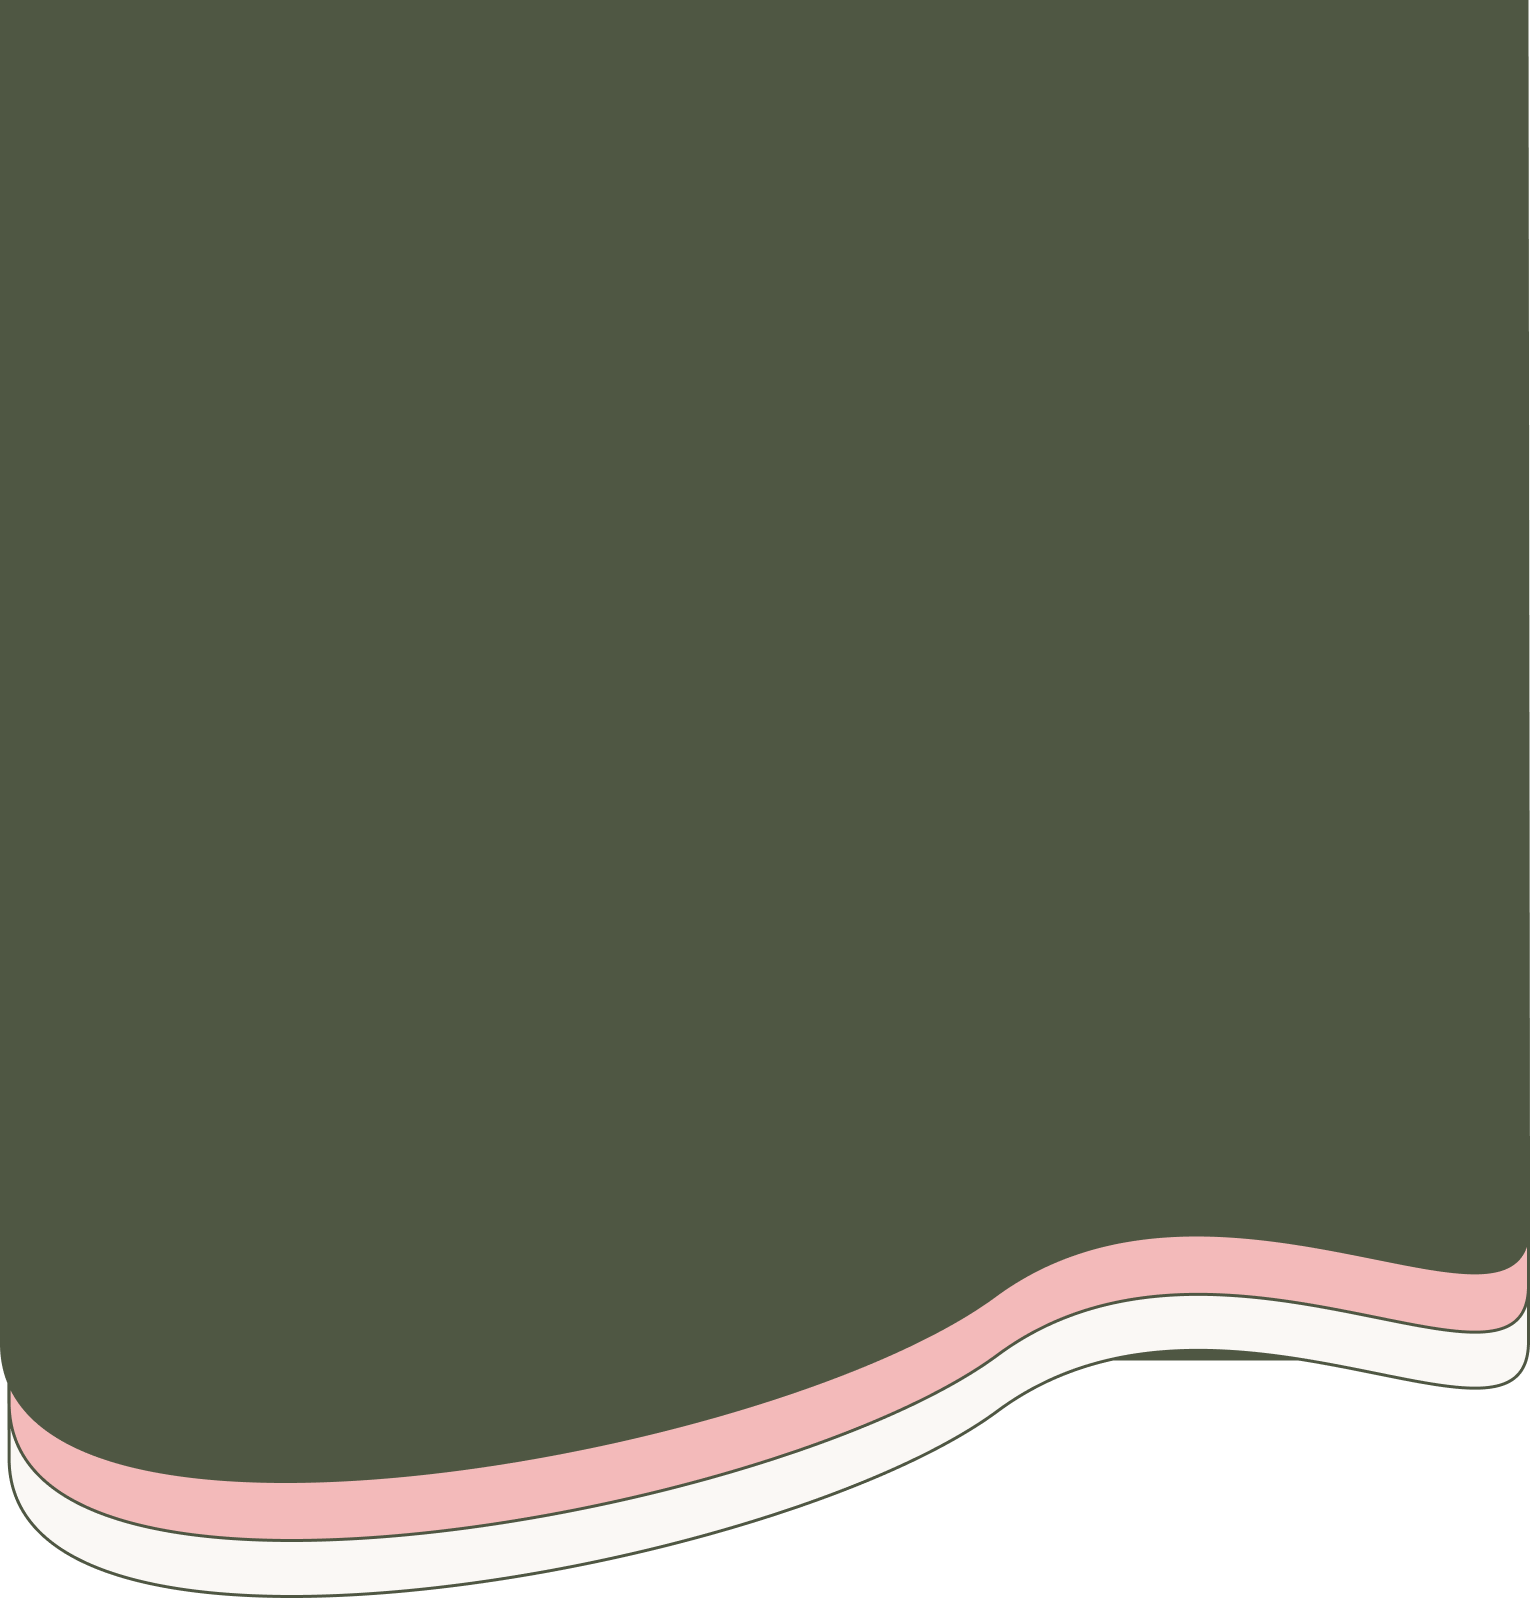
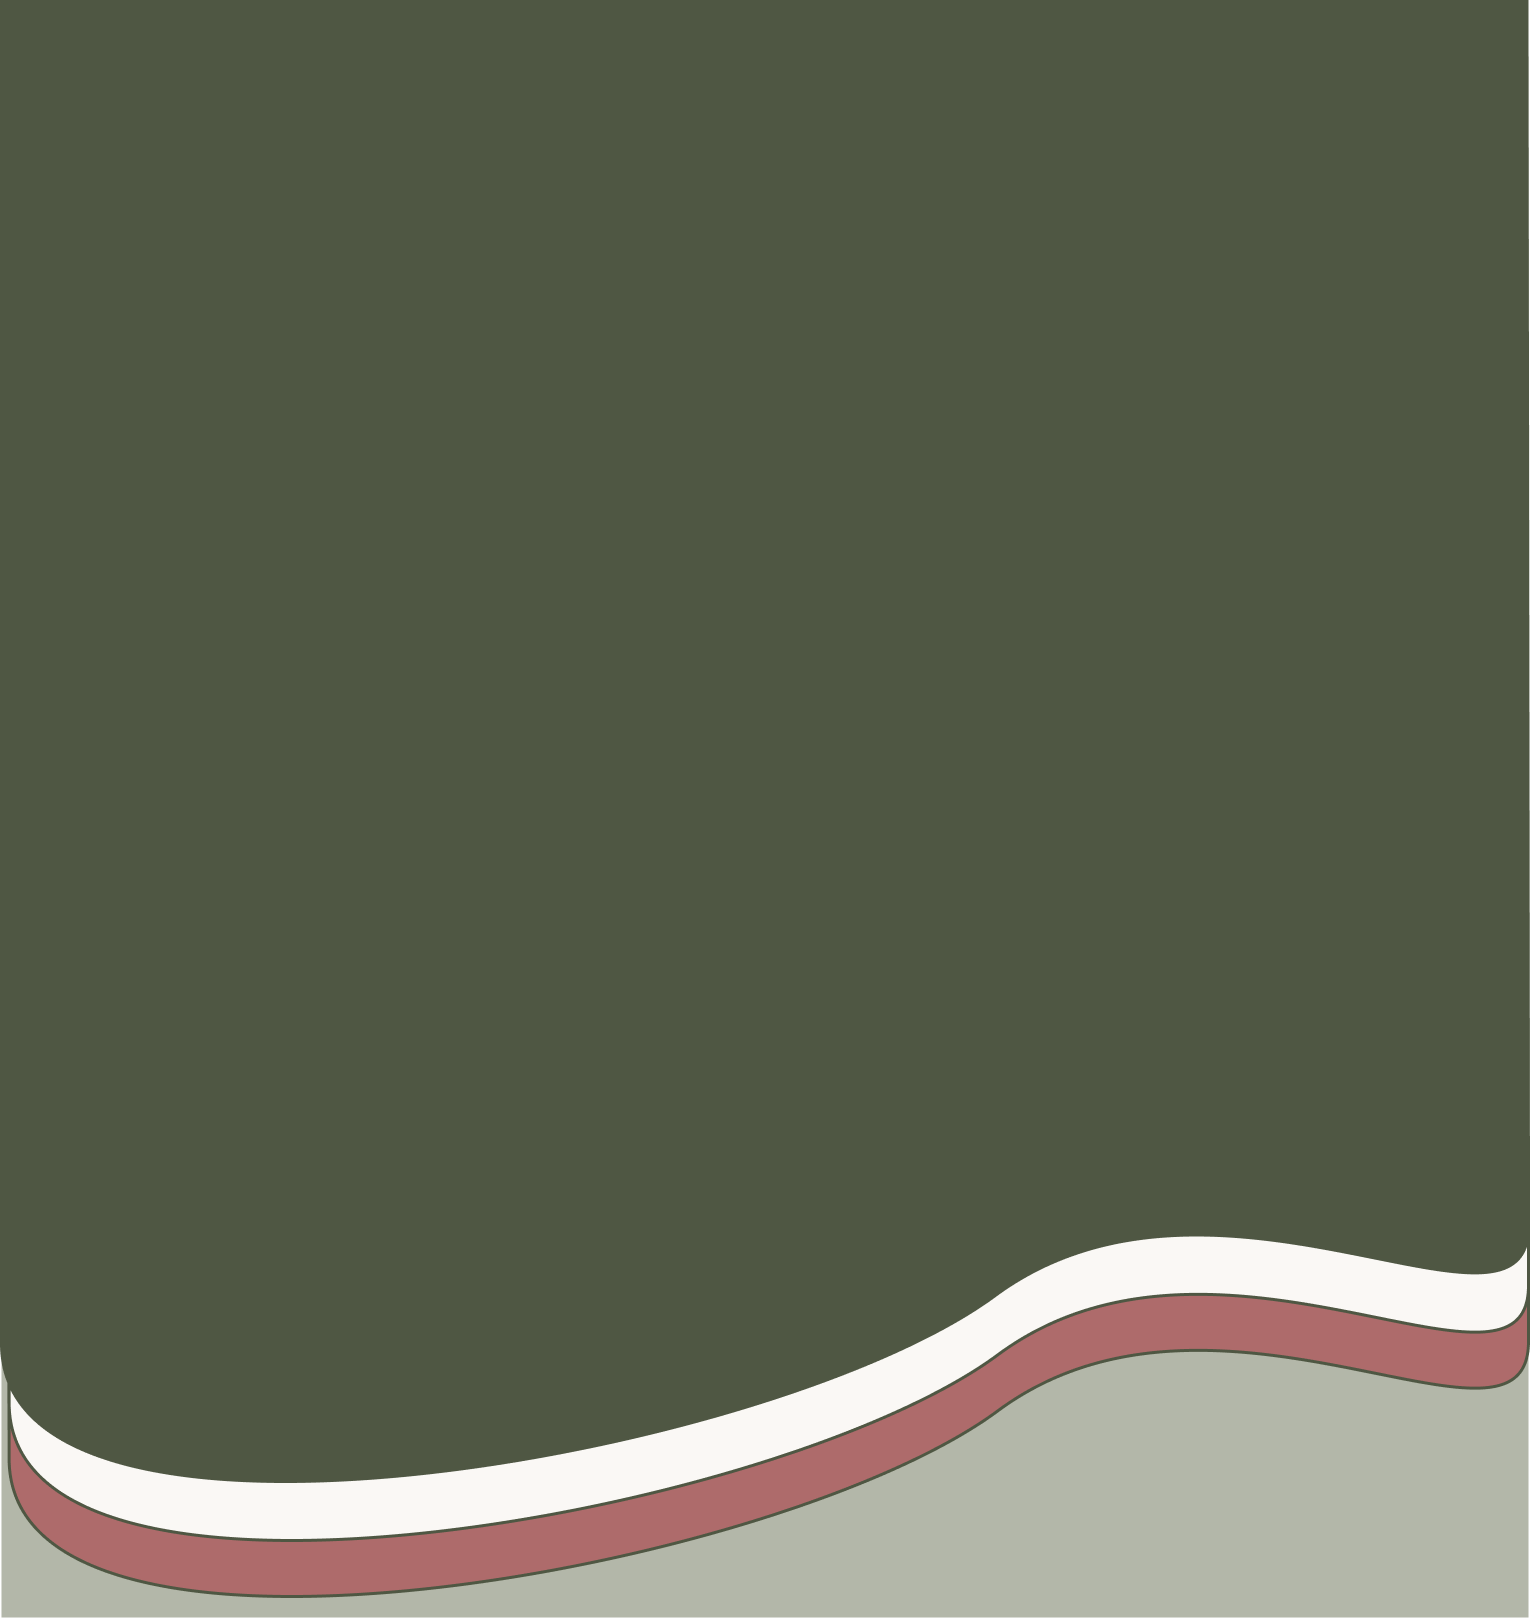
adjusted header background

Changed region(s): [[0.0, 0.7666, 1.0, 1.0]]

diff --git a/src/components/About.tsx b/src/components/About.tsx
@@ -1,40 +1,62 @@
-import naturePic from '../assets/images/nature-pic.png';
-import cowboyPic from '../assets/images/cowboy-pic.png';
-import cafePic from '../assets/images/cafe-pic.png';
+import naturePic from "../assets/images/nature-pic.png";
+import cowboyPic from "../assets/images/cowboy-pic.png";
+import cafePic from "../assets/images/cafe-pic.png";
+import doodle from "../assets/images/doodle.png";
 
 const About = () => {
   return (
-    <div className="about flex gap-6 p-6">
-      <div className="about__image-container w-1/2 flex">
-        {/* Bild 1 */}
-        <img src={naturePic} alt="Bild på mig i naturen" className="about__nature-pic w-1/2 h-full object-contain"/>
+    <section className="about flex gap-6 p-6 flex flex-col">
+      <article className="about__container flex">
+        <div className="about__image-container w-1/2 flex">
+          {/* Bild 1 */}
+          <img
+            src={naturePic}
+            alt="Jag står vid en sjö i naturen"
+            className="about__nature-pic w-1/2 h-full object-contain"
+          />
 
-        {/* Bild-container */}
-        <div className="about__right-image-container flex flex-col gap-2 w-1/2">
+          {/* Bild-container */}
+          <div className="about__right-image-container flex flex-col gap-2 w-1/2">
+            {/* Bild 2 */}
+            <img
+              src={cowboyPic}
+              alt="Jag är utklädd till cowboy"
+              className="h-1/3 object-contain"
+            />
 
-          {/* Bild 2 */}
-          <img src={cowboyPic} alt="Bild på mig som cowboy" className="h-1/3 object-contain"/>
-
-          {/* Bild 3 */}
-          <img src={cafePic} alt="Bild på mig på ett café" className="h-1/3 object-contain"/>
+            {/* Bild 3 */}
+            <img
+              src={cafePic}
+              alt="Jag dricker kaffe på ett café"
+              className="h-1/3 object-contain"
+            />
+          </div>
         </div>
-      </div>
 
-      <section className="about__text-container bg-sand-opacity w-1/2 flex flex-col">
-        <h2 className="text-2xl font-bold txt-dark text-left">Hej!</h2>
-
-        <p className="txt-dark leading-relaxed text-left">
-          Jag heter Minna och är en nyfiken, blivande webbutvecklare.
-          Jag brinner för tillgänglighet och användarvänlighet, då alla ska kunna använda webben utan svårigheter, oavsett förutsättningar.
-          <br /><br />
-          Ett område som jag introducerades till nyligen är hållbar webbdesign,
-          vilket också har blivit ett ämne som jag tycker är väldigt intressant och betydande.
-          Därför valde jag att skriva min kandidatuppsats om just hållbar webbdesign.
-        </p>
-
-      </section>
-    </div>
+        <section className="about__text-container w-1/2 flex flex-col">
+          <h2 className="font-bold txt-dark text-left">Hejsan!</h2>
+          <section className="about__text-background bg-sand-opacity">
+            <p className="txt-dark leading-relaxed text-left">
+              Jag heter Minna och är en nyfiken, blivande webbutvecklare. Jag
+              brinner för tillgänglighet och användarvänlighet, då alla ska
+              kunna använda webben utan svårigheter, oavsett förutsättningar.
+              <br />
+              <br />
+              Ett område som jag introducerades till nyligen är hållbar
+              webbdesign, vilket också har blivit ett ämne som jag tycker är
+              väldigt intressant och betydande. Därför valde jag att skriva min
+              kandidatuppsats om just hållbar webbdesign.
+            </p>
+          </section>
+        </section>
+      </article>
+      <img
+        src={doodle}
+        alt="Bild på mig som cowboy"
+        className="h-1/3 object-contain"
+      />
+    </section>
   );
-}
+};
 
 export default About;

diff --git a/src/components/Thesis.tsx b/src/components/Thesis.tsx
@@ -1,19 +1,45 @@
-import bachelorThesis from '../assets/images/bachelor-thesis.png';
+import bachelorThesis from "../assets/images/bachelor-thesis.png";
 
 const Thesis = () => {
   return (
-    <div className="thesis__flex-container flex flex-col md:flex-row max-w-[1126px] mx-auto gap-8">
-        <div className="thesis__flex-container flex">
-            <section className="thesis__text-container bg-sand-opacity flex-2">
-                <h2 className="thesis__title txt-dark font-bold">Företags och organisationers digitala miljöpåverkan</h2>
-                <h3 className="thesis__sub-title txt-dark font-light">En undersökning med fokus på grafiska element inom hållbar webbdesign</h3>
-                <p className="thesis__desc txt-dark">Mitt examensarbete undersökte huruvida företag och organisationer arbetar med hållbar webbdesign och om de var intresserade av att göra det ifall de inte redan gjorde det. En huvudmetod som användes var Sustainable Tech, som är ett verktyg som Knowit har tagit fram, som analyserar mängden koldioxidutsläpp som en webbsida förbrukar.</p>
-            </section>
-            <img src={bachelorThesis} alt="Min kandidatuppsats" className="thesis__image flex-shrink-0 object-contain"/>
-        </div>
-            <p className="thesis__link-text txt-dark bg-sand-opacity">Länk till min kandidatuppsats: <a href="https://urn.kb.se/resolve?urn=urn:nbn:se:kau:diva-106881" className="thesis__link underline txt-black">https://urn.kb.se/resolve?urn=urn:nbn:se:kau:diva-106881</a></p>
+    <div className="thesis flex flex-col max-w-[1126px] mx-auto gap-8">
+      <div className="thesis__flex-container flex">
+        <section className="thesis__text-container flex-2">
+          <section className="thesis__text-background bg-sand-opacity">
+            <h2 className="thesis__title txt-dark font-bold">
+              Företags och organisationers digitala miljöpåverkan
+            </h2>
+            <h3 className="thesis__sub-title txt-dark font-light">
+              En undersökning med fokus på grafiska element inom hållbar
+              webbdesign
+            </h3>
+            <p className="thesis__desc txt-dark text-left">
+              Mitt examensarbete undersökte huruvida företag och organisationer
+              arbetar med hållbar webbdesign och om de var intresserade av att
+              göra det ifall de inte redan gjorde det. En huvudmetod som
+              användes var Sustainable Tech, som är ett verktyg som Knowit har
+              tagit fram, som analyserar mängden koldioxidutsläpp som en
+              webbsida förbrukar.
+            </p>
+          </section>
+        </section>
+        <img
+          src={bachelorThesis}
+          alt="Min kandidatuppsats"
+          className="thesis__image flex-shrink-0 object-contain"
+        />
+      </div>
+      <p className="thesis__link-text txt-dark bg-sand-opacity">
+        Länk till min kandidatuppsats:{" "}
+        <a
+          href="https://urn.kb.se/resolve?urn=urn:nbn:se:kau:diva-106881"
+          className="thesis__link underline txt-black"
+        >
+          https://urn.kb.se/resolve?urn=urn:nbn:se:kau:diva-106881
+        </a>
+      </p>
     </div>
   );
-}
+};
 
 export default Thesis;

diff --git a/src/components/Header.tsx b/src/components/Header.tsx
@@ -1,28 +1,40 @@
-import profilePic from '../assets/images/profile-pic.png';
-import staircase from '../assets/images/staircase.png';
+import profilePic from "../assets/images/profile-pic.png";
+import staircase from "../assets/images/staircase.png";
 
 const Header = () => {
   return (
-    <div className="header flex justify-center items-start w-full bg-sage-dark py-8 pb-8">
-
+    <header className="header flex justify-center items-start w-full py-8 pb-8 header-bg">
       <div className="flex">
         {/* profilbild */}
-        <img src={profilePic} alt="Profilbild" className="header__profile-pic object-contain"/>
+        <img
+          src={profilePic}
+          alt="Profilbild"
+          className="header__profile-pic object-contain"
+        />
 
-      {/* centrerad grid-container */}
-      <div className="header__grid-container grid grid-cols-[auto_auto_auto] grid-rows-2 gap-x-0 items-start place-items-center max-w-[600px] mx-auto mt-10">
-        {/* dekoration */}
-        <img src={staircase} alt="Textdekoration" className="header__detail row-start-2 col-start- row-span-2 w-10 h-10 object-contain"/>
+        {/* centrerad grid-container */}
+        <div className="header__grid-container grid grid-cols-[auto_auto_auto] grid-rows-2 gap-x-0 items-start place-items-center max-w-[600px] mx-auto mt-10">
+          {/* dekoration */}
+          <img
+            src={staircase}
+            alt="Textdekoration"
+            className="header__detail row-start-2 col-start- row-span-2 w-10 h-10 object-contain"
+          />
 
-        {/* titel */}
-        <h1 className="text-2xl font-semibold txt-sand col-start-2 col-span-3 row-start-2 leading-tight"> Minna Hedell</h1>
+          {/* titel */}
+          <h1 className="text-2xl font-semibold txt-sand col-start-2 col-span-3 row-start-2 leading-tight">
+            {" "}
+            Minna Hedell
+          </h1>
 
-        {/* undertitel */}
-        <h2 className="text-sm txt-sand col-start-2 col-span-4 row-start-3 leading-tight">– Junior webbutvecklare med tillgänglighetsintresse</h2>
+          {/* undertitel */}
+          <h2 className="text-sm txt-sand col-start-2 col-span-4 row-start-3 leading-tight">
+            – Junior webbutvecklare med tillgänglighetsintresse
+          </h2>
+        </div>
       </div>
-      </div>
-    </div>
+    </header>
   );
-}
+};
 
 export default Header;

diff --git a/src/index.css b/src/index.css
@@ -1,16 +1,14 @@
-@tailwind base;
-@tailwind components;
-@tailwind utilities;
+@import "tailwindcss";
 
 :root {
-  --sage: #4F5743;
-  --sage-light: #B3B7A9;
-  --blush: #F3BABA;
-  --fair: #F9DDD8;
-  --sand: #FAF8F5;
+  --sage: #4f5743;
+  --sage-light: #b3b7a9;
+  --blush: #ae6b6b;
+  --fair: #f9ddd8;
+  --sand: #faf8f5;
 
-  --sans: system-ui, 'Segoe UI', Roboto, sans-serif;
-  --heading: system-ui, 'Segoe UI', Roboto, sans-serif;
+  --sans: system-ui, "Segoe UI", Roboto, sans-serif;
+  --heading: system-ui, "Segoe UI", Roboto, sans-serif;
   --mono: ui-monospace, Consolas, monospace;
 
   font: 18px/145% var(--sans);
@@ -48,8 +46,16 @@
   background-color: var(--sand);
 }
 
+.header-bg {
+  background-image: url("./assets/images/header-background.png");
+  background-size: cover;
+  background-position: center;
+  background-repeat: no-repeat;
+  width: 100%;
+}
+
 .bg-sand-opacity {
-  background-color: rgba(250, 248, 245, 0.7);
+  background-color: rgba(250, 248, 245, 0.9);
   border-radius: 1rem;
   padding: 1rem;
 }
@@ -62,9 +68,13 @@
   color: #000;
 }
 
+body {
+  background-color: var(--sage-light);
+}
+
 .header {
   padding-top: 3rem;
-  height: 100vh;
+  min-height: 140vh;
 
   .header__profile-pic {
     width: 10rem;
@@ -81,7 +91,6 @@
   .header__grid-container {
     margin-top: 5rem;
   }
-
 }
 
 .thesis__image {
@@ -199,9 +208,12 @@ code {
 } */
 
 @media (max-width: 689px) {
-  
   .about {
     flex-direction: column;
     align-items: center;
+  }
+
+  .thesis {
+    flex-direction: column;
   }
 }

diff --git a/src/App.tsx b/src/App.tsx
@@ -1,17 +1,18 @@
-import Header from './components/Header';
-import About from './components/About';
-import Thesis from './components/Thesis';
-import bgImage from './assets/images/background.png';
-import './App.css'
+import Header from "./components/Header";
+import About from "./components/About";
+import Thesis from "./components/Thesis";
+import Experience from "./components/Experience";
+import "./App.css";
 
 function App() {
   return (
-    <div className="min-h-screen bg-cover bg-center" style={{ backgroundImage: `url(${bgImage})`}}>
+    <>
       <Header />
       <About />
       <Thesis />
-    </div>
-  )
+      <Experience />
+    </>
+  );
 }
 
 export default App;

diff --git a/src/components/Experience.tsx b/src/components/Experience.tsx
@@ -1,0 +1,9 @@
+const Experience = () => {
+    return (
+        <div className="experience bg-sand">
+            <h2 className="txt-dark">Programmeringsspråk / webbtekniker</h2>
+        </div>
+    );
+}
+
+export default Experience;